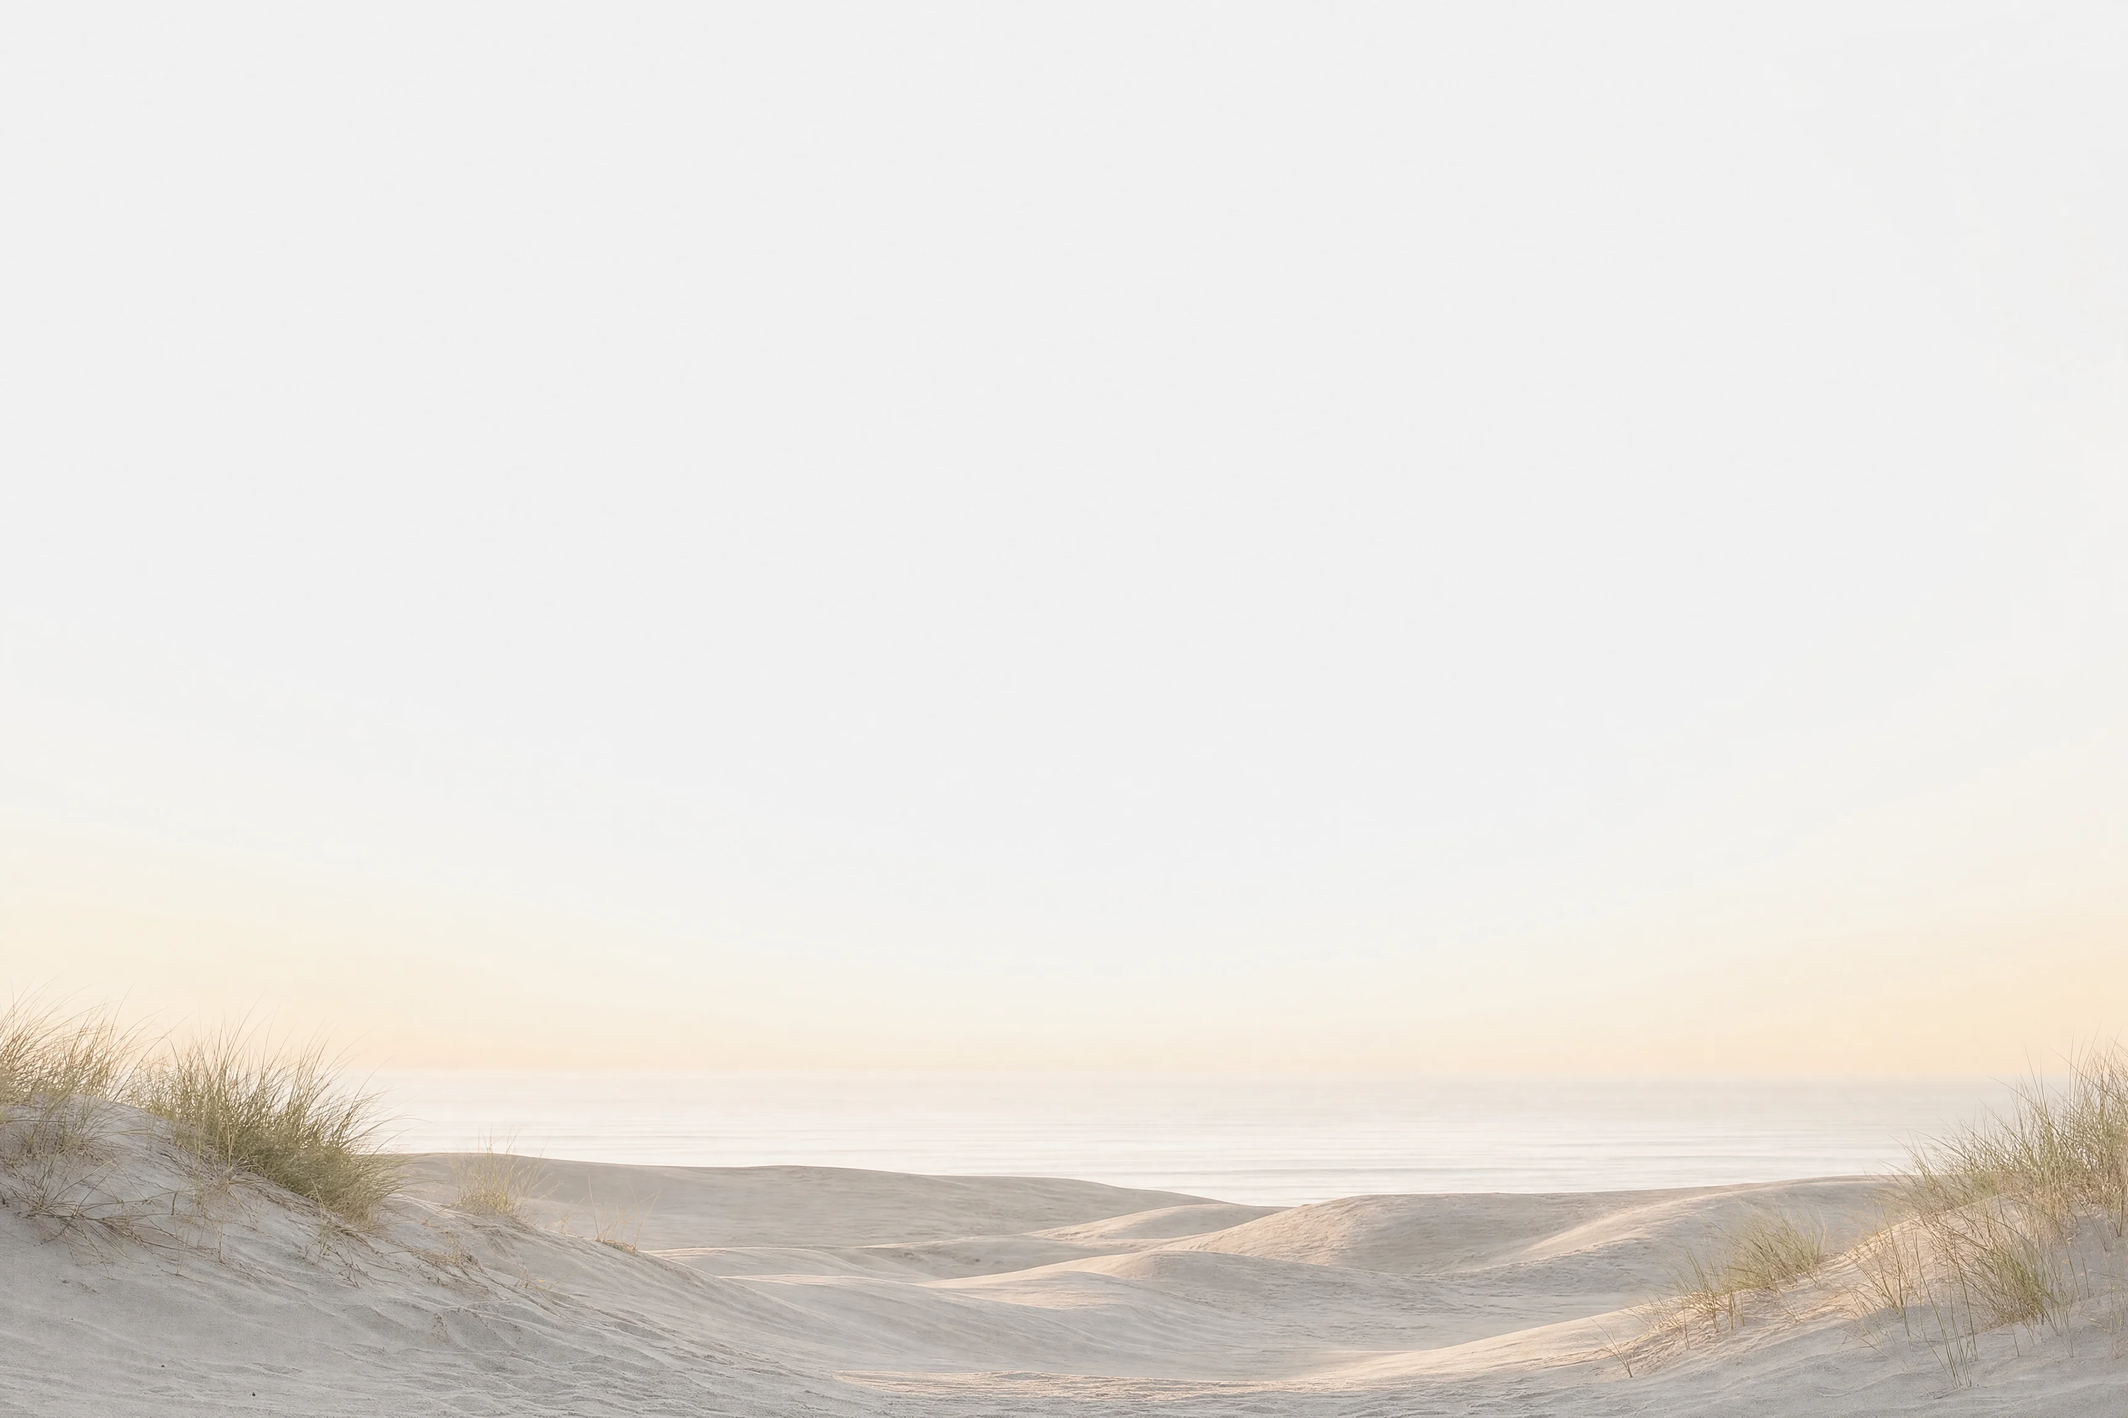
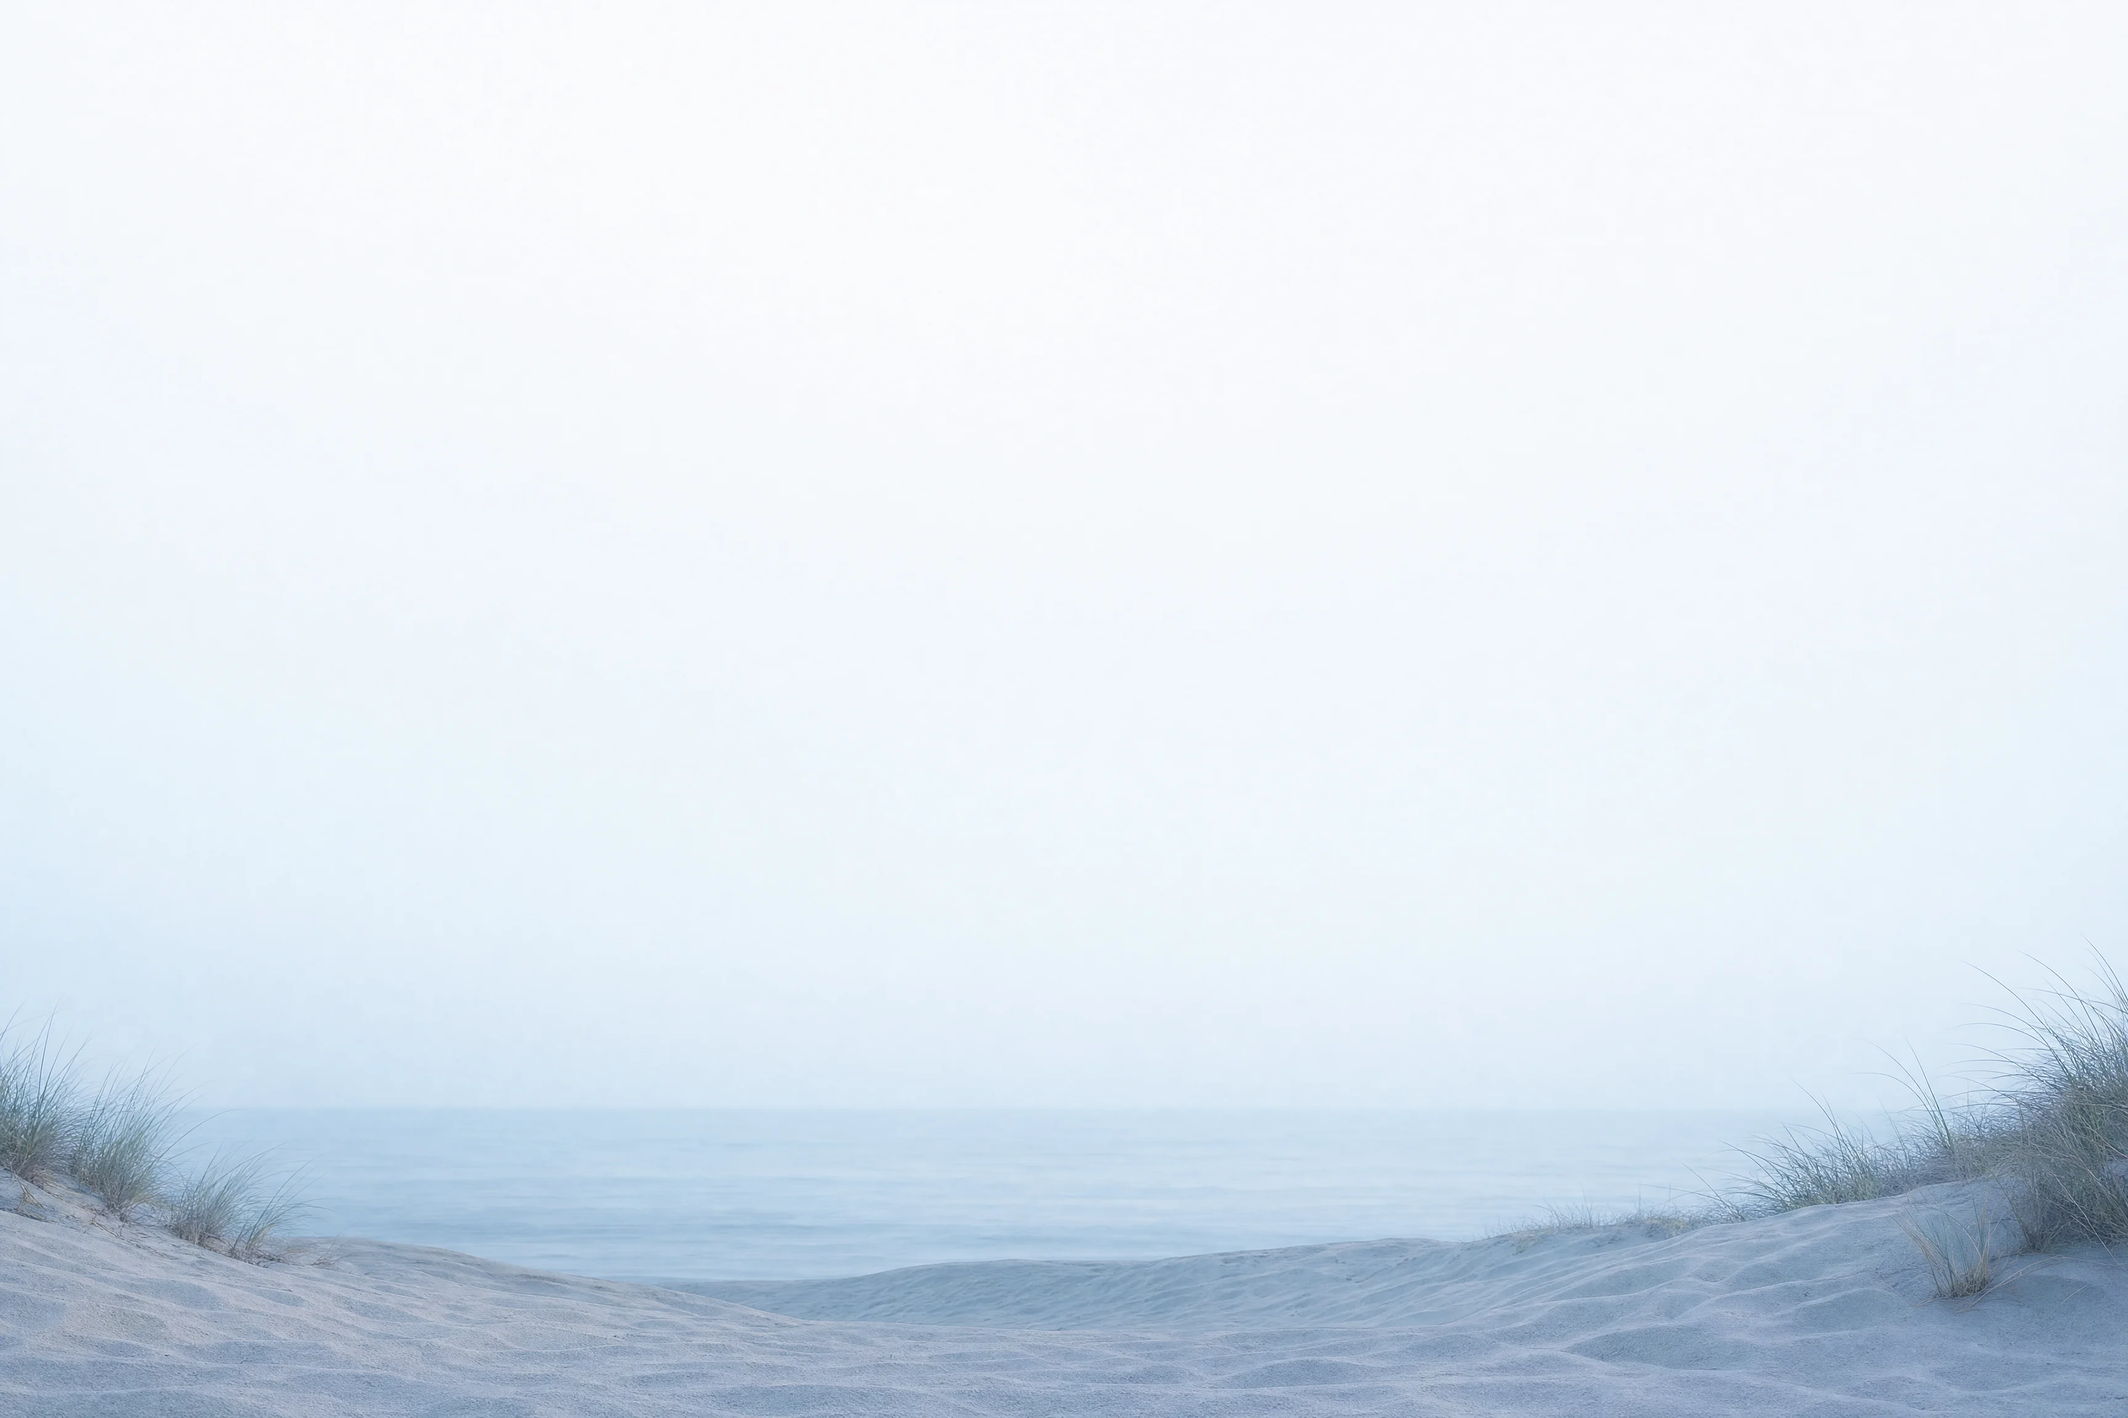
feat: update theme colors and assets for improved branding and consistency

Changed region(s): [[0.0, 0.5938, 1.0, 1.0]]

diff --git a/app/globals.css b/app/globals.css
@@ -49,38 +49,45 @@
   --radius-4xl: calc(var(--radius) * 2.6);
 }
 
-/* Landing page ("Highlighter" theme): warm stone neutrals, highlighter-yellow
-   accent, plum ruled-paper stage. `accent` and `muted` are shared names with
-   the app's shadcn tokens, so they are re-pointed inside `.landing` below. */
+/* Landing page tokens, taken from the app's light theme (the :root block
+   below) so the site and the app look like one product: the app's blue for
+   primary actions, its light-blue sidebar accent and its neutral greys.
+   Values are fixed (not var()) so the landing stays light in dark mode.
+   `accent` and `muted` are shared names with the app's shadcn tokens, so they
+   are re-pointed inside `.landing` below. */
 @theme {
-  --color-canvas: #fafaf9;
-  --color-surface: #ffffff;
-  --color-sunken: #f4f3f1;
-  --color-ink: #1c1917;
-  --color-ink-soft: #292524;
-  --color-subtle: #a8a29e;
-  --color-line: #e7e5e4;
-  --color-line-strong: #d6d3d1;
+  --color-canvas: oklch(0.985 0 0);
+  --color-surface: oklch(1 0 0);
+  --color-sunken: oklch(0.97 0 0);
+  --color-ink: oklch(0.145 0 0);
+  --color-ink-soft: oklch(0.205 0 0);
+  --color-subtle: oklch(0.708 0 0);
+  --color-line: oklch(0.922 0 0);
+  --color-line-strong: oklch(0.87 0 0);
 
-  --color-accent-deep: #fcd34d;
-  --color-accent-edge: #e0a40b;
+  --color-brand: oklch(0.5 0.134 242.749);
+  --color-brand-deep: oklch(0.443 0.11 240.79);
+  --color-brand-foreground: oklch(0.977 0.013 236.62);
 
-  --color-stage: #1d1725;
-  --color-stage-line: #2e2638;
+  --color-accent-deep: oklch(0.89 0.045 241.966);
+  --color-accent-edge: oklch(0.588 0.158 241.966);
+
+  --color-stage: oklch(0.293 0.066 243.157);
+  --color-stage-line: oklch(0.36 0.07 242);
 
   /* macOS window controls on the product mock */
   --color-window-close: #ff5f57;
   --color-window-minimize: #febc2e;
   --color-window-zoom: #28c840;
 
-  --color-violet-tint: #f6f1ff;  --color-violet-edge: #e6dbff;  --color-violet-ink: #7c3aed;
-  --color-sky-tint: #eef6fd;     --color-sky-edge: #d4e8f8;     --color-sky-ink: #0284c7;
-  --color-peach-tint: #fdf4e9;   --color-peach-edge: #f6e0c6;   --color-peach-ink: #c2410c;
-  --color-mint-tint: #effbf1;    --color-mint-edge: #cdeed4;    --color-mint-ink: #15803d;
+  /* Blue tint trio for grouped cards: app primary-foreground, sidebar-accent, primary. */
+  --color-sky-tint: oklch(0.977 0.013 236.62);
+  --color-sky-edge: oklch(0.928 0.026 241.966);
+  --color-sky-ink: oklch(0.5 0.134 242.749);
 
-  --shadow-card: 0 1px 2px rgb(28 25 23 / 0.04), 0 12px 32px -20px rgb(28 25 23 / 0.18);
-  --shadow-float: 0 8px 30px -12px rgb(28 25 23 / 0.18);
-  --shadow-window: 0 1px 0 rgb(28 25 23 / 0.04), 0 30px 70px -30px rgb(0 0 0 / 0.6);
+  --shadow-card: 0 1px 2px rgb(10 10 10 / 0.04), 0 12px 32px -20px rgb(10 10 10 / 0.18);
+  --shadow-float: 0 8px 30px -12px rgb(10 10 10 / 0.18);
+  --shadow-window: 0 1px 0 rgb(10 10 10 / 0.04), 0 30px 70px -30px rgb(0 0 0 / 0.6);
 
   --animate-rise: rise 700ms cubic-bezier(0.2, 0.7, 0.2, 1) both;
 
@@ -93,9 +100,9 @@
 }
 
 .landing {
-  --accent: #fde68a;
+  --accent: oklch(0.928 0.026 241.966);
   --accent-foreground: var(--color-ink);
-  --muted: #57534e;
+  --muted: oklch(0.439 0 0);
   color-scheme: light;
   font-feature-settings: "cv11", "ss01";
 }
@@ -169,8 +176,8 @@ html:has(.landing) body {
 /* Notebook ruling on the dark product stage. */
 @utility stage-ruled {
   background-image:
-    linear-gradient(to bottom, rgb(253 230 138 / 0.05) 1px, transparent 1px),
-    linear-gradient(to right, rgb(244 114 182 / 0.14) 1px, transparent 1px);
+    linear-gradient(to bottom, rgb(186 230 253 / 0.07) 1px, transparent 1px),
+    linear-gradient(to right, rgb(56 189 248 / 0.22) 1px, transparent 1px);
   background-size:
     100% 28px,
     100% 100%;

diff --git a/components/landing/stage/stage-ai-panel.tsx b/components/landing/stage/stage-ai-panel.tsx
@@ -4,19 +4,19 @@ import { STAGE_AI_ACTIONS, STAGE_AI_SUGGESTION } from "@/components/landing/stag
 export function StageAiPanel() {
   return (
     <div aria-hidden className="flex min-w-0 flex-col gap-2.5">
-      <div className="rounded-2xl border border-violet-edge bg-violet-tint p-4">
+      <div className="rounded-2xl border border-sky-edge bg-sky-tint p-4">
         <div className="flex items-center gap-2">
-          <span className="flex size-7 items-center justify-center rounded-full bg-surface text-violet-ink shadow-card">
+          <span className="flex size-7 items-center justify-center rounded-full bg-surface text-sky-ink shadow-card">
             <Sparkles className="size-3.5" />
           </span>
           <span className="text-[13px] font-semibold text-ink">AI suggestion</span>
         </div>
         <p className="mt-2.5 text-[13px] leading-relaxed text-ink-soft">{STAGE_AI_SUGGESTION}</p>
         <div className="mt-3 flex flex-wrap gap-2">
-          <span className="inline-flex h-7 items-center rounded-full bg-ink px-3 text-[12px] font-semibold text-white">
+          <span className="inline-flex h-7 items-center rounded-full bg-brand px-3 text-[12px] font-semibold text-brand-foreground">
             Add to note
           </span>
-          <span className="inline-flex h-7 items-center rounded-full border border-violet-edge bg-surface px-3 text-[12px] font-semibold text-ink-soft">
+          <span className="inline-flex h-7 items-center rounded-full border border-sky-edge bg-surface px-3 text-[12px] font-semibold text-ink-soft">
             Try again
           </span>
         </div>
@@ -28,7 +28,7 @@ export function StageAiPanel() {
             key={action}
             className="inline-flex h-7 items-center gap-1 rounded-full border border-line bg-surface px-2.5 text-[11px] font-semibold text-muted"
           >
-            <Sparkles className="size-3 text-violet-ink" />
+            <Sparkles className="size-3 text-sky-ink" />
             {action}
           </li>
         ))}

diff --git a/components/landing/features/features-section.tsx b/components/landing/features/features-section.tsx
@@ -28,7 +28,7 @@ export function FeaturesSection() {
 
       <div className="reveal mt-12 grid grid-cols-1 gap-4 sm:mt-14 sm:grid-cols-2 lg:grid-cols-4 lg:gap-5">
         <BentoCard
-          tone="violet"
+          tone="sky"
           titleAccent="Type /"
           title="for any block"
           description="Headings, task lists, quotes and code blocks appear the moment you need them."
@@ -37,7 +37,6 @@ export function FeaturesSection() {
           <SlashMenuPreview className="max-w-none shadow-card sm:max-w-72" />
         </BentoCard>
         <BentoCard
-          tone="mint"
           titleAccent="Private"
           title="by default"
           description="Notes live in your browser. Nothing to sign up for or sync."
@@ -45,6 +44,7 @@ export function FeaturesSection() {
           <PrivacyVisual />
         </BentoCard>
         <BentoCard
+          tone="sky"
           titleAccent="Tidy"
           title="without trying"
           description="Categories, pins and favourites keep the right note close."
@@ -52,7 +52,6 @@ export function FeaturesSection() {
           <OrganiseVisual />
         </BentoCard>
         <BentoCard
-          tone="sky"
           titleAccent="Find it"
           title="as you type"
           description="Search titles and text across every note instantly."
@@ -60,7 +59,7 @@ export function FeaturesSection() {
           <SearchVisual />
         </BentoCard>
         <BentoCard
-          tone="peach"
+          tone="sky"
           titleAccent="Scratchpad"
           title="for quick bits"
           description="One always-there page for numbers, links and half-ideas."

diff --git a/components/landing/stage/stage-note-list.tsx b/components/landing/stage/stage-note-list.tsx
@@ -15,14 +15,35 @@ export function StageNoteList() {
             key={title}
             className={cn(
               "rounded-xl border px-2.5 py-2",
-              active ? "border-line bg-sunken" : "border-transparent"
+              active ? "border-brand bg-brand" : "border-transparent"
             )}
           >
             <div className="flex items-baseline justify-between gap-2">
-              <span className="truncate text-[12px] font-semibold text-ink">{title}</span>
-              <span className="shrink-0 font-mono text-[10px] text-subtle">{time}</span>
+              <span
+                className={cn(
+                  "truncate text-[12px] font-semibold",
+                  active ? "text-brand-foreground" : "text-ink"
+                )}
+              >
+                {title}
+              </span>
+              <span
+                className={cn(
+                  "shrink-0 font-mono text-[10px]",
+                  active ? "text-brand-foreground/70" : "text-subtle"
+                )}
+              >
+                {time}
+              </span>
             </div>
-            <p className="mt-0.5 truncate text-[11px] text-muted">{preview}</p>
+            <p
+              className={cn(
+                "mt-0.5 truncate text-[11px]",
+                active ? "text-brand-foreground/75" : "text-muted"
+              )}
+            >
+              {preview}
+            </p>
           </li>
         ))}
       </ul>

diff --git a/components/landing/features/bento-visuals.tsx b/components/landing/features/bento-visuals.tsx
@@ -7,11 +7,11 @@ const ICON_CLASS = "flex size-9 shrink-0 items-center justify-center rounded-xl"
 export function PrivacyVisual() {
   return (
     <div aria-hidden className={ROW_CLASS}>
-      <span className={cn(ICON_CLASS, "bg-mint-tint text-mint-ink")}>
+      <span className={cn(ICON_CLASS, "bg-sky-tint text-sky-ink")}>
         <Lock className="size-4" />
       </span>
       <div className="min-w-0">
-        <p className="truncate text-[13px] font-semibold text-ink">Saved on this device</p>
+        <p className="truncate text-[13px] font-semibold text-ink">On this device only</p>
         <p className="truncate text-[12px] text-muted">No account · No server</p>
       </div>
     </div>
@@ -79,13 +79,13 @@ const BACKUP_ROWS = [
     icon: FileJson,
     title: "takemynote-backup.json",
     meta: "Notes, categories and preferences",
-    iconClass: "bg-violet-tint text-violet-ink",
+    iconClass: "bg-sky-tint text-sky-ink",
   },
   {
     icon: FileText,
     title: "weekend-in-lisbon.md",
     meta: "Single note as Markdown",
-    iconClass: "bg-peach-tint text-peach-ink",
+    iconClass: "bg-sky-edge text-brand-deep",
   },
 ];
 

diff --git a/components/landing/stage/stage-editor.tsx b/components/landing/stage/stage-editor.tsx
@@ -8,7 +8,7 @@ export function StageEditor() {
   return (
     <div className="relative min-w-0 bg-surface px-5 pt-6 pb-8 sm:px-8 sm:pt-8">
       <p className="text-[11px] font-medium text-subtle">
-        <span className="text-peach-ink">Travel</span> · Edited just now
+        <span className="text-brand">Travel</span> · Edited just now
       </p>
       <h3 className="mt-2 text-[22px] leading-tight font-semibold tracking-[-0.02em] text-ink sm:text-[26px]">
         Weekend in Lisbon
@@ -25,7 +25,7 @@ export function StageEditor() {
             <span
               className={cn(
                 "flex size-4 shrink-0 items-center justify-center rounded-[5px] border",
-                done ? "border-ink bg-ink text-white" : "border-line-strong bg-surface"
+                done ? "border-brand bg-brand text-brand-foreground" : "border-line-strong bg-surface"
               )}
             >
               {done && <Check className="size-3" strokeWidth={3} />}

diff --git a/components/landing/landing-hero.tsx b/components/landing/landing-hero.tsx
@@ -10,7 +10,7 @@ export function LandingHero() {
   return (
     <section className="relative isolate overflow-hidden">
       {/* Height grows with width so the dunes stay level just under the button. */}
-      <div className="absolute inset-x-0 top-0 -z-10 h-[520px] sm:h-[640px] md:h-[calc(470px_+_20vw)] xl:h-[calc(430px_+_23vw)]">
+      <div className="absolute inset-x-0 top-0 -z-10 h-[500px] sm:h-[575px] lg:h-[calc(427px_+_14vw)]">
         <Image
           src={heroDunes}
           alt=""
@@ -36,7 +36,7 @@ export function LandingHero() {
         </CtaLink>
       </div>
 
-      <div className="mx-auto mt-28 max-w-6xl animate-rise px-3 [animation-delay:150ms] sm:mt-36 sm:px-6 md:mt-[calc(4rem_+_9vw)] lg:px-8">
+      <div className="mx-auto mt-28 max-w-6xl animate-rise px-3 [animation-delay:150ms] sm:px-6 lg:px-8">
         <ProductStage />
       </div>
     </section>

diff --git a/components/landing/stage/stage-sidebar.tsx b/components/landing/stage/stage-sidebar.tsx
@@ -8,7 +8,7 @@ export function StageSidebar() {
     <div className="hidden flex-col gap-5 border-r border-line bg-canvas p-3 lg:flex">
       <div className="flex items-center gap-2 px-1.5 pt-1">
         <LogoMark className="size-5" />
-        <span className="text-[13px] font-semibold text-ink">{APP_NAME}</span>
+        <span className="text-[13px] font-semibold text-ink italic">{APP_NAME}</span>
       </div>
 
       <ul className="flex flex-col gap-0.5">
@@ -17,7 +17,7 @@ export function StageSidebar() {
             key={label}
             className={cn(
               "flex items-center gap-2 rounded-lg px-2 py-1.5 text-[12px] font-medium",
-              active ? "bg-accent/70 text-ink" : "text-muted"
+              active ? "bg-accent text-ink" : "text-muted"
             )}
           >
             <Icon className="size-3.5" />

diff --git a/components/landing/stage/product-stage.tsx b/components/landing/stage/product-stage.tsx
@@ -10,11 +10,11 @@ export function ProductStage() {
     <div className="relative isolate overflow-hidden rounded-[28px] border border-stage-line bg-stage p-3 stage-ruled sm:p-6 lg:p-10">
       <div
         aria-hidden
-        className="absolute -top-24 left-1/4 -z-10 h-64 w-1/2 rounded-full bg-accent/20 blur-3xl"
+        className="absolute -top-24 left-1/4 -z-10 h-64 w-1/2 rounded-full bg-sky-ink/30 blur-3xl"
       />
       <div
         aria-hidden
-        className="absolute -right-16 bottom-0 -z-10 h-56 w-72 rounded-full bg-violet-ink/25 blur-3xl"
+        className="absolute -right-16 bottom-0 -z-10 h-56 w-72 rounded-full bg-accent-edge/25 blur-3xl"
       />
 
       <div className="overflow-hidden rounded-[20px] border border-white/10 bg-surface shadow-window">

diff --git a/components/landing/features/bento-card.tsx b/components/landing/features/bento-card.tsx
@@ -1,13 +1,10 @@
 import { cn } from "@/lib/utils";
 
-export type BentoTone = "plain" | "violet" | "sky" | "peach" | "mint";
+export type BentoTone = "plain" | "sky";
 
 const TONE_CLASSES: Record<BentoTone, { card: string; accent: string }> = {
-  plain: { card: "border-line bg-surface", accent: "text-muted" },
-  violet: { card: "border-violet-edge bg-violet-tint", accent: "text-violet-ink" },
+  plain: { card: "border-line bg-surface", accent: "text-sky-ink" },
   sky: { card: "border-sky-edge bg-sky-tint", accent: "text-sky-ink" },
-  peach: { card: "border-peach-edge bg-peach-tint", accent: "text-peach-ink" },
-  mint: { card: "border-mint-edge bg-mint-tint", accent: "text-mint-ink" },
 };
 
 interface BentoCardProps {

diff --git a/components/landing/landing-nav.tsx b/components/landing/landing-nav.tsx
@@ -53,7 +53,7 @@ export function LandingNav() {
           className="flex items-center gap-2 rounded-full focus-visible:outline-2 focus-visible:outline-offset-2 focus-visible:outline-accent-edge"
         >
           <LogoMark className="size-7" />
-          <span className="text-[15px] leading-none font-semibold tracking-tight text-ink">
+          <span className="text-[15px] leading-none font-semibold tracking-tight text-ink italic">
             {APP_NAME}
           </span>
         </Link>

diff --git a/components/landing/landing-footer.tsx b/components/landing/landing-footer.tsx
@@ -15,7 +15,7 @@ export function LandingFooter() {
           <div className="max-w-xs">
             <Link href={ROUTES.home} className="flex items-center gap-2">
               <LogoMark className="size-7" />
-              <span className="text-[15px] leading-none font-semibold tracking-tight text-ink">
+              <span className="text-[15px] leading-none font-semibold tracking-tight text-ink italic">
                 {APP_NAME}
               </span>
             </Link>
